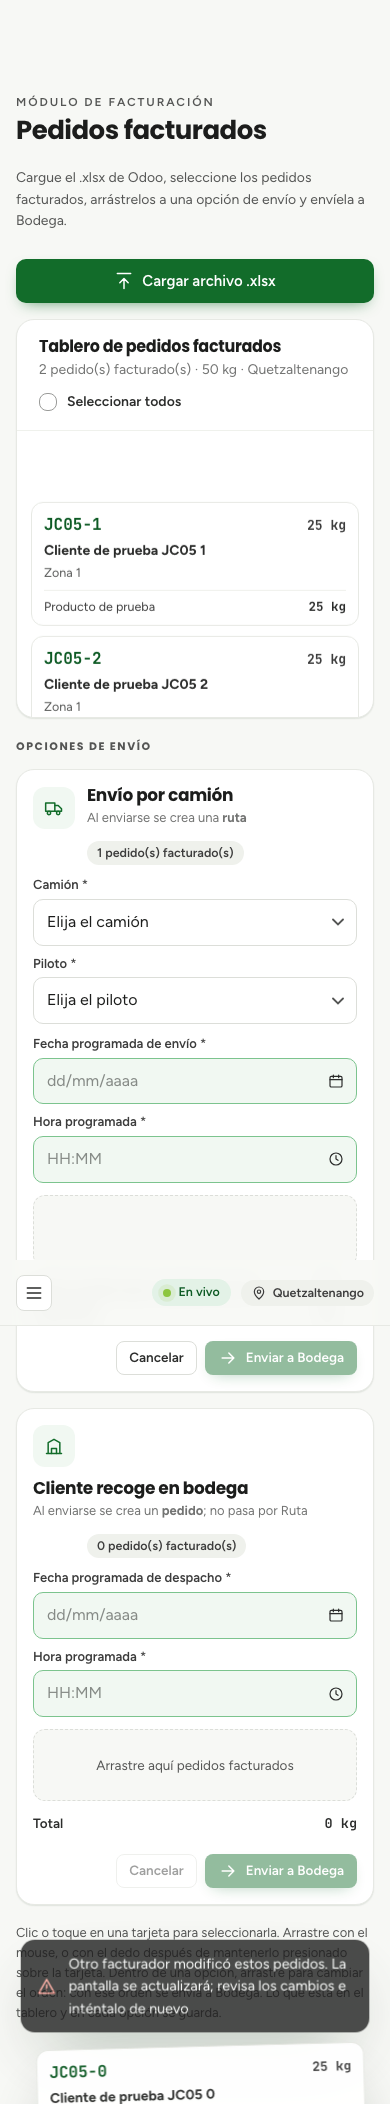
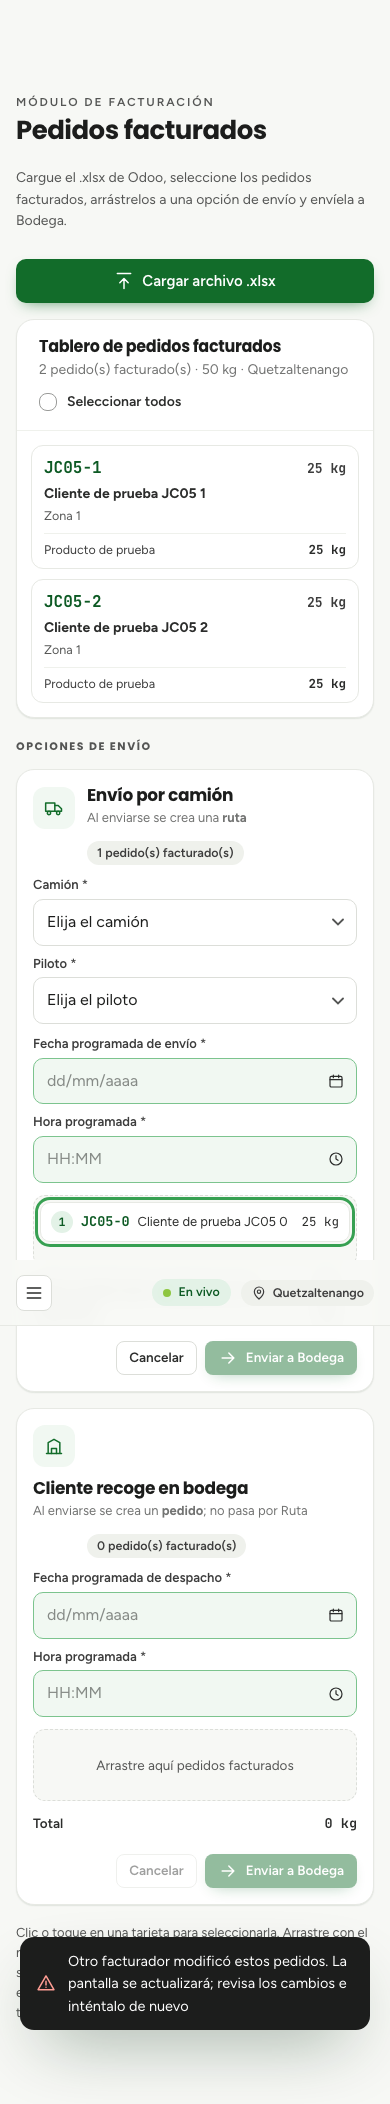
docs(facturacion): cerrar JC-05 con evidencia de verificación completa

diff --git a/plan/tareas/JC-05-facturacion-con-dos-facturadores.md b/plan/tareas/JC-05-facturacion-con-dos-facturadores.md
@@ -5,7 +5,7 @@ persona: jose-daniel
 responsable: José Daniel Cifuentes
 hito: E3
 prioridad: P1
-estado: pendiente
+estado: hecha
 depende_de: [JC-04, JG-10]
 programada: 2026-10-21
 requisitos: [RF-SL-67, RN-48, RNF-13]
@@ -54,8 +54,27 @@ npm run e2e -- pruebas-e2e/picking/facturacion-dos-facturadores.spec.ts
 ## Fuera de alcance
 - El servidor SSE (JG-10).
 
-## Avance verificado (21/10/2026; pendiente de cierre)
+## Resultado
 
-Implementación en la rama `jose-daniel/JC-05-facturacion-simultanea`: comprobación transaccional del estado visible, aviso confirmado con Jordin, actualización compartida por SSE y conservación de arrastre/edición. `npm run verificar`: 310 pruebas aprobadas; compilación aprobada; los tres E2E de JC-05 pasan, con latencias de 51, 63 y 58 ms.
+Implementado y verificado el 21/10/2026.
 
-La batería completa en secuencia dio 201 aprobados y seis fallos en los dos casos de accesibilidad de altas de usuarios, repetidos en los tres tamaños. Se pidió autorización para esperar el fin de la animación antes de axe en `pruebas-e2e/panel/usuarios.spec.ts` y `pruebas-e2e/picking/usuarios.spec.ts`, archivos de Carlos (protocolo §C). José Daniel autorizó explícitamente ambos ajustes en esta conversación el 21/10/2026; se aplicaron sin cambiar las aserciones. La verificación final está en curso y la tarea todavía no está cerrada ni integrada. Evidencia y pasos para continuar: `pruebas-e2e/picking/evidencias/jc-05/README.md`.
+- Las operaciones de mover, ordenar, eliminar, cancelar y enviar comparan el estado que vio el facturador (ubicación, posición y fecha de modificación) con el guardado, bajo el bloqueo transaccional compartido de la sede. Una operación obsoleta se rechaza antes de escribir o registrar bitácora. Se conserva el bloqueo `FOR UPDATE` al enviar y el resultado `null` para el doble clic sobre una opción vacía.
+- El aviso de conflicto fue confirmado por José Daniel con Jordin en esta conversación y quedó registrado en `specs/06` y `specs/18`.
+- Las acciones publican con `avisarCambio(sedeId)` después de confirmar. El armazón ya mantiene `useCambiosDeSede`; no se abre otra suscripción. Facturación conserva la vista durante el arrastre, la edición de fecha/hora y sus guardados pendientes, y aplica los datos recibidos al terminar.
+- Las confirmaciones conservan los pedidos que la persona vio al abrirlas. No pueden eliminar, cancelar ni enviar un conjunto incorporado posteriormente por otro facturador.
+
+### Cómo usar lo creado
+
+`consultarTableroFacturacion` y los pedidos de `consultarOpciones` devuelven `posicion` y `actualizadoEn` (texto ISO). `estadoDePedidos(pedidos)` desde `src/modulos/envios/estado-pedidos.ts` obtiene el estado mínimo para las acciones:
+
+- Movimiento: añadir `estadoOrigen` y `estadoDestino`, con todos los pedidos de ambas zonas en orden visible.
+- Cancelar o enviar: añadir `estadoEsperado`, con los pedidos de la opción al abrir la confirmación.
+- Eliminar: añadir `estadoEsperado`, con los pedidos seleccionados en el orden del tablero.
+
+Los estados son obligatorios y se validan con Zod. El contrato completo está en `src/modulos/envios/README.md`. Los envíos, sus líneas, entregas e historial conservan las interfaces de JC-04 para Bodega, Ruta y Reportes.
+
+### Verificación y alcance autorizado
+
+`npm run verificar`: formato, lint, tipos y **310 pruebas en 34 archivos**, aprobados. `npm run build`: aprobado. E2E de dos facturadores en los tres tamaños, incluyendo borradores de fecha/hora, aviso, arrastre y envío, aprobados dentro de la batería completa: **207 pruebas**, con axe y sin omisiones. Latencias, capturas comparativas y revisión independiente LISTO: `pruebas-e2e/picking/evidencias/jc-05/README.md`.
+
+José Daniel autorizó explícitamente en esta conversación (21/10/2026) añadir únicamente la espera del final de la animación antes de axe en `pruebas-e2e/panel/usuarios.spec.ts` y `pruebas-e2e/picking/usuarios.spec.ts`, archivos de Carlos. Se conservan todas las aserciones y reglas de accesibilidad. Los seis casos afectados pasaron tras el ajuste y en la batería completa. No se agregaron dependencias ni cambios de esquema o migraciones.

diff --git a/plan/bitacora/jose-daniel.md b/plan/bitacora/jose-daniel.md
@@ -40,8 +40,8 @@ Los avisos para otra persona van en su propia línea y empiezan en negrita con a
 **Jordin:** por autorización explícita del usuario, `pruebas-e2e/comunes/componentes.spec.ts` espera la animación del diálogo antes de medir contraste; mantiene todas las reglas de axe. Actualiza tu rama desde `develop`.
 **Josué:** por autorización explícita del usuario, solo cambié a `var(--g600)` el color del texto de prioridad en `src/componentes/picking/bodega/BodegaCliente.tsx`; su contraste era 4.46:1 y fallaba el control general de accesibilidad. Actualiza tu rama desde `develop`.
 
-## 2026-10-21 · JC-05 · Dos facturadores a la vez y tiempo real (avance pendiente de cierre)
-- Hecho: estado esperado obligatorio (ubicación, posición y modificación) en movimientos, eliminación, cancelación y envío; transacciones con bloqueo compartido por sede; confirmaciones conservan los pedidos vistos; SSE del armazón y aplicación aplazada durante arrastre, edición y guardados pendientes. Ocho pruebas nuevas de integración; E2E con dos facturadores y tres tamaños. `npm run verificar` pasa con 310 pruebas; compilación y E2E propios pasan; latencias de 51, 63 y 58 ms. Revisión independiente LISTO.
-- Decisiones: José Daniel confirmó con Jordin el aviso registrado en specs/06 y specs/18. No se agregaron dependencias, esquema ni migraciones. Se usaron bases y cuentas de prueba desechables. La tarea sigue pendiente y sin PR de cierre, en `jose-daniel/JC-05-facturacion-simultanea`.
+## 2026-10-21 · JC-05 · Dos facturadores a la vez y tiempo real
+- Hecho: estado esperado obligatorio (ubicación, posición y modificación) en movimientos, eliminación, cancelación y envío; comprobación bajo el bloqueo transaccional compartido por sede; confirmaciones conservan los pedidos vistos. Facturación usa SSE del armazón y aplica cambios al finalizar arrastre, edición y guardados pendientes. Ocho pruebas nuevas de integración y E2E con dos facturadores en los tres tamaños. `npm run verificar`: 310 pruebas en 34 archivos; compilación y 207 E2E completos aprobados, con axe y sin omisiones. Latencias de 47, 66 y 185 ms. Revisión independiente LISTO.
+- Decisiones: José Daniel confirmó con Jordin el aviso registrado en specs/06 y specs/18. Sin dependencias, esquema ni migraciones nuevas. Bases y cuentas de prueba desechables. Contrato de estados y evidencia en `src/modulos/envios/README.md` y `pruebas-e2e/picking/evidencias/jc-05/README.md`.
 - Pendiente o aviso para otros:
-  - **Carlos:** la batería completa confirmó fallos de contraste al medir las altas de usuarios durante su animación en `pruebas-e2e/panel/usuarios.spec.ts` y `pruebas-e2e/picking/usuarios.spec.ts`. Se propuso esperar `getAnimations()` antes de axe, igual que en las pruebas comunes. José Daniel autorizó explícitamente esos dos ajustes en esta conversación el 21/10/2026. Se aplicó únicamente la espera de animaciones, conservando todas las aserciones; la verificación final está en curso. Evidencia y continuación en `pruebas-e2e/picking/evidencias/jc-05/README.md`.
+  - **Carlos:** José Daniel autorizó explícitamente en esta conversación (21/10/2026) esperar el final de la animación antes de axe en `pruebas-e2e/panel/usuarios.spec.ts` y `pruebas-e2e/picking/usuarios.spec.ts`. Se añadieron solo esas esperas; se conservaron todas las aserciones. Los seis casos afectados y la batería completa pasan. Actualiza tu rama desde `develop` después de integrar JC-05.

diff --git a/pruebas-e2e/picking/evidencias/jc-05/README.md b/pruebas-e2e/picking/evidencias/jc-05/README.md
@@ -36,25 +36,19 @@ Se conservaron textos, orden, estados y tokens del prototipo. Las diferencias de
 - `npm run verificar`: formato, lint, tipos y **310 pruebas en 34 archivos**, aprobados.
 - `npm run build`: compilación de producción aprobada.
 - E2E dirigido de JC-05: **3 aprobados**, en teléfono, tableta y escritorio.
-- Batería completa en secuencia (`npm run e2e -- --workers=1`): **201 aprobados y 6 fallidos**. Los seis fallos son los mismos dos casos de accesibilidad de altas de usuarios, repetidos en los tres tamaños; falta autorización para ajustar los archivos ajenos. JC-05 pasó en los tres tamaños, con fecha y hora.
+- Batería completa en secuencia (`npm run e2e -- --workers=1`): **207 aprobados**, sin fallos ni omisiones, incluyendo los tres casos de JC-05 y los seis de accesibilidad de altas de usuarios.
 - `node scripts/tareas.mjs --validar`: 63 tareas válidas.
 - Next.js, `get_errors`: `configErrors: []`, `sessionErrors: []`.
 - [Revisión independiente](revision.md): LISTO, sin hallazgos de corrección.
 
-La primera batería completa, con dos trabajadores, detectó comprobaciones transitorias ajenas a Facturación (título de Ruta y contraste durante la apertura de altas de usuarios). También detectó una precondición incompleta en el nuevo E2E: antes de cronometrar, el navegador que actúa debe haber aplicado su movimiento anterior. Se agregó esa espera explícita, sin cambiar el límite de latencia, las aserciones ni las verificaciones de accesibilidad. La repetición en secuencia confirmó los fallos de las altas de usuarios. No se modificaron esos archivos; se preparó un ajuste que espera la animación, pendiente de autorización según protocolo §C.
+Los casos de accesibilidad de altas de usuarios esperan el fin de la animación antes de medir el contraste. José Daniel autorizó explícitamente ese ajuste en los dos archivos de Carlos el 21/10/2026. Los seis casos afectados pasaron por separado y dentro de la batería completa. Se conservaron todas las aserciones y reglas de accesibilidad.
 
 ## Latencias de JC-05
 
 Desde la publicación hasta el DOM del otro facturador, con el artefacto de producción:
 
-- Teléfono: [51 ms](latencia-telefono.json).
-- Tableta: [63 ms](latencia-tableta.json).
-- Escritorio: [58 ms](latencia-escritorio.json).
+- Teléfono: [47 ms](latencia-telefono.json).
+- Tableta: [66 ms](latencia-tableta.json).
+- Escritorio: [185 ms](latencia-escritorio.json).
 
 Todos conservan el límite de menos de 2000 ms. El transporte es el del armazón; no hay una conexión adicional en Facturación.
-
-## Continuación pendiente
-
-La tarea conserva `estado: pendiente` y no se abrió un PR de cierre ni se integró. Espera autorización de José Daniel para añadir únicamente la espera de `elemento.getAnimations().map(animacion => animacion.finished)` antes de axe en `pruebas-e2e/panel/usuarios.spec.ts` y `pruebas-e2e/picking/usuarios.spec.ts` (propiedad de Carlos). El cambio propuesto está en `/tmp/jc05-esperas-usuarios.patch`; todas las aserciones se conservan.
-
-Tras obtener autorización: aplicar el ajuste, registrar la excepción en la tarea y bitácora, volver a verificar los casos afectados y la batería completa, completar la revisión del cierre, marcar hecha y abrir/integrar el PR por el procedimiento habitual.

diff --git a/pruebas-e2e/picking/evidencias/jc-05/revision.md b/pruebas-e2e/picking/evidencias/jc-05/revision.md
@@ -12,4 +12,4 @@ Ninguno.
 
 VEREDICTO: LISTO.
 
-Las capturas de otras áreas regeneradas por las pruebas se excluyen del PR. El cierre documental se revisa después de la batería completa.
+Las capturas de otras áreas regeneradas por las pruebas se excluyen del PR. Los dos ajustes de usuarios autorizados se revisaron por separado: esperan la animación sin alterar el alcance de axe ni las aserciones. La precondición del E2E y la evidencia JSON también se revisaron sin hallazgos.
